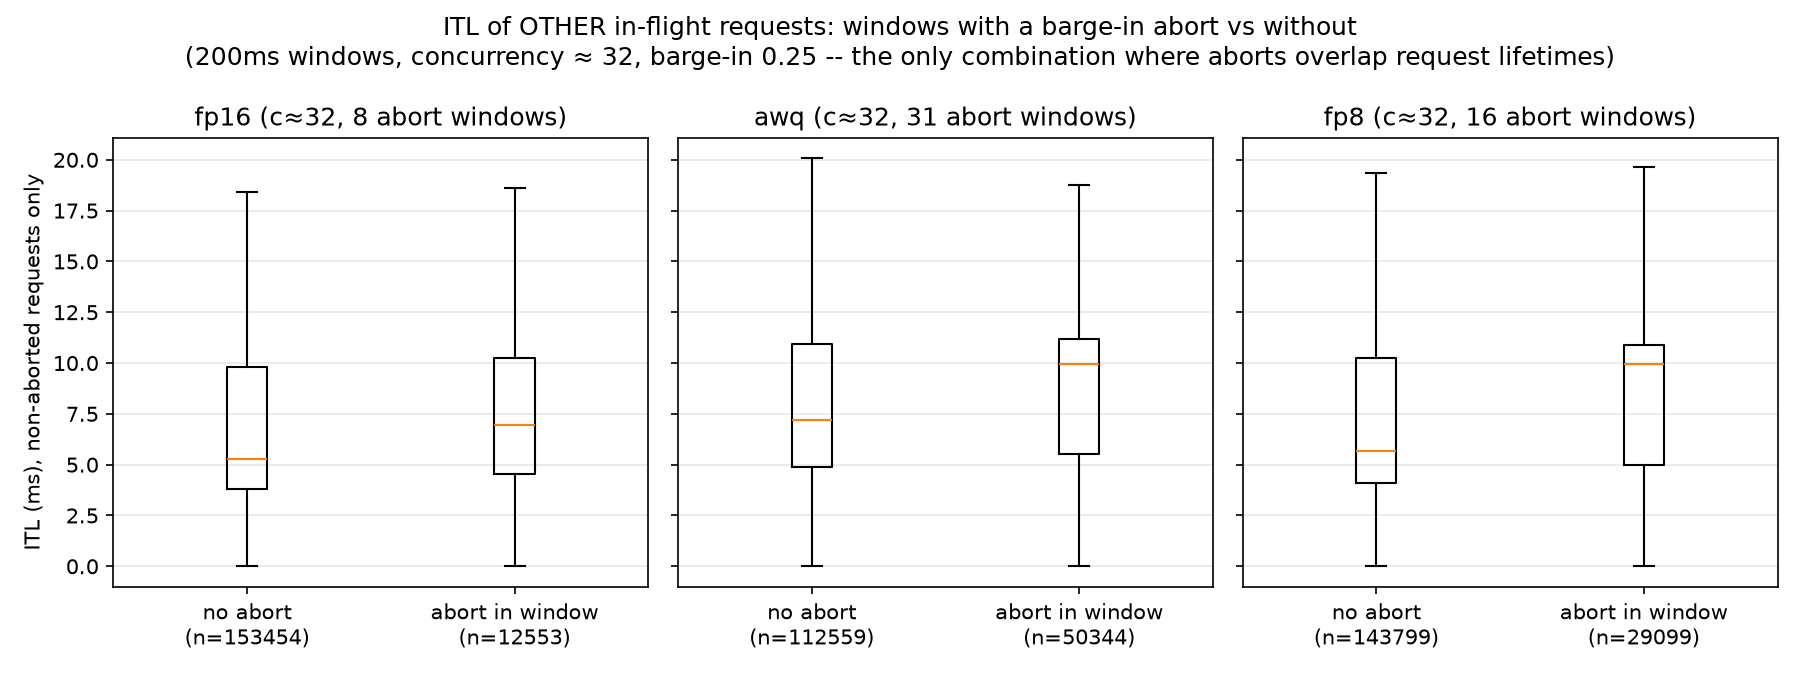
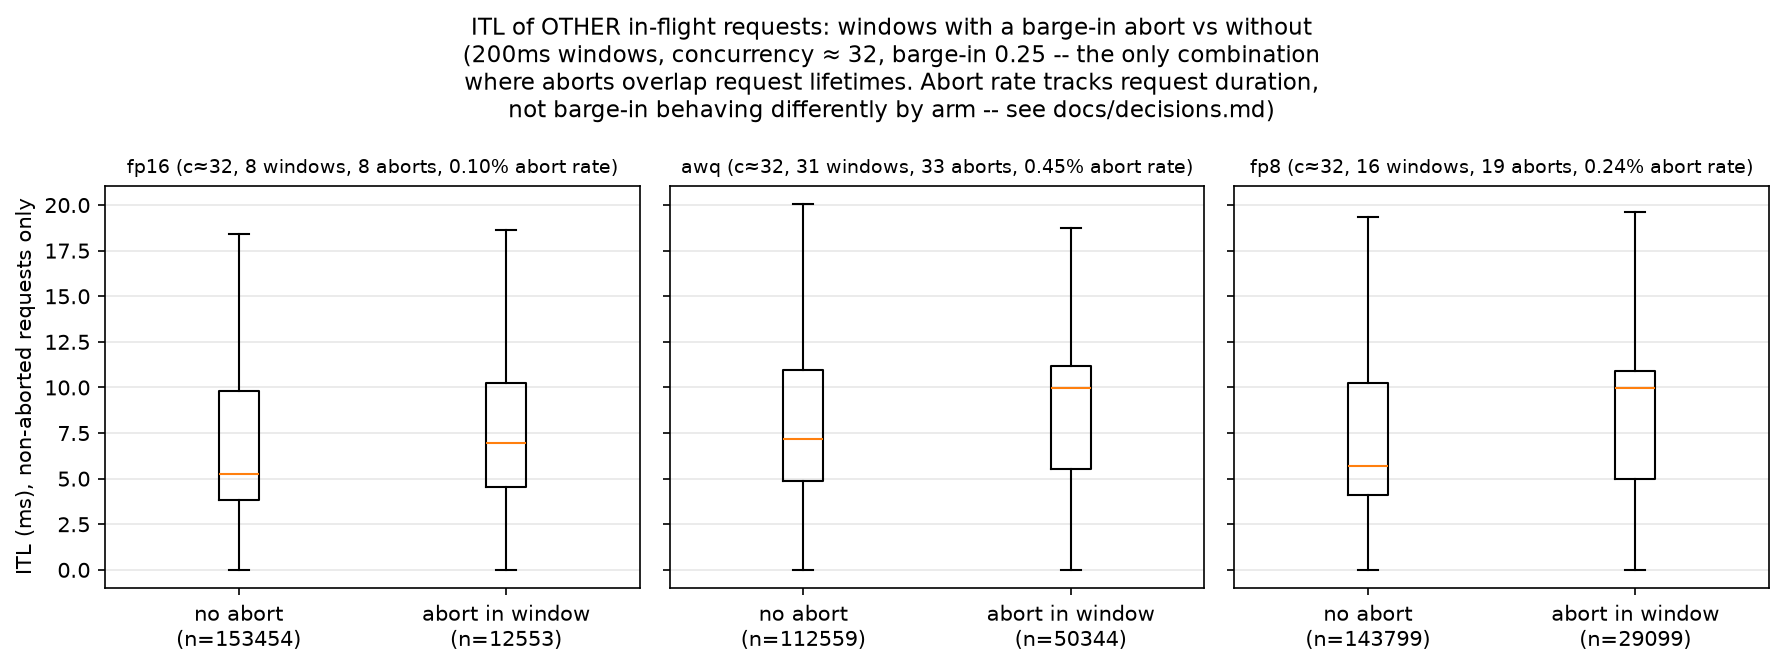
Phase 5 follow-up: plot legibility, effect-size comparison, abort-window spread (#21)
* fix: label overlap and title clipping in scripts/analyze.py plots

ttft_vs_arrival_rate.png labeled every point on all four series -- at
the two low-rate load points the values sit within ~2ms of each other,
so the labels collided into an unreadable smear. Only the highest-rate
point is labeled now, which is also the point the plot exists to make
(the series separate there, not at the low end).

Separately, plot titles/suptitles on the multi-line captions were
getting clipped at the figure edge (tight_layout doesn't reserve space
for suptitle text). savefig now passes bbox_inches="tight" everywhere.

* feat: add effect-size comparison plot

prefix_caching_effect.png only compares fp16 on vs off; the arrival-rate
plot shows quantization's near-flatness at low load but not a direct
side-by-side. Neither actually proves "prefix caching is the largest
lever" -- the headline claim -- from a single image; a reader has to
cross-reference the table to see that -28%/-38% dwarfs AWQ's +1%/+3%
and FP8's +14%/+15% at the same load point. This plot puts all three in
one frame so that comparison doesn't require assembly.

* docs: explain the abort-window count spread across arms

itl_abort_windows.png's window counts looked like they might mean
barge-in behaves differently per arm (fp16 8, AWQ 33, FP8 19 -- roughly
a 4x spread). Traced it: the sampled abort delay (0.3-1.2s) is identical
across arms, so it only actually aborts a request that's still in
[…]

diff --git a/scripts/analyze.py b/scripts/analyze.py
@@ -1,7 +1,7 @@
 """
 Phase 5: reads results/*.json committed by the Phase 1-3 sweep (and its
 calibration/repeat passes) and emits the arm x load x barge-in x
-prefix-caching matrix as markdown, plus five plots. Nothing here talks to
+prefix-caching matrix as markdown, plus six plots. Nothing here talks to
 a server -- every number traces back to a JSON file already in this repo,
 which is the point of this phase: it runs with no GPU and no pod.
 
@@ -308,6 +308,12 @@ def load_kept_requests(path):
 
 
 def plot_ttft_vs_arrival_rate(cells, out_path):
+    # Only the highest-rate point is labeled: at the two low-rate points
+    # all four series sit within ~2ms of each other, so per-point labels
+    # there collide into an unreadable smear rather than adding
+    # information -- the table has the exact numbers. The high-rate point
+    # is where the series actually separate, which is the point this plot
+    # exists to make.
     fig, ax = plt.subplots(figsize=(7, 5))
     for arm, prefix in ARM_ORDER:
         xs, ys = [], []
@@ -319,9 +325,8 @@ def plot_ttft_vs_arrival_rate(cells, out_path):
         if xs:
             label = f"{arm} (prefix {'on' if prefix else 'off'})" if arm == "fp16" else arm
             ax.plot(xs, ys, marker="o", label=label)
-            for x, y in zip(xs, ys):
-                ax.annotate(f"{y:.1f}", (x, y), textcoords="offset points",
-                             xytext=(4, 4), fontsize=8)
+            ax.annotate(f"{ys[-1]:.1f}", (xs[-1], ys[-1]), textcoords="offset points",
+                         xytext=(4, 4), fontsize=8)
     ax.set_xscale("log")
     ax.set_xlabel("Offered arrival rate (req/s, log scale)")
     ax.set_ylabel("TTFT p50 (ms)")
@@ -330,7 +335,7 @@ def plot_ttft_vs_arrival_rate(cells, out_path):
     ax.legend()
     ax.grid(alpha=0.3)
     fig.tight_layout()
-    fig.savefig(out_path, dpi=150)
+    fig.savefig(out_path, dpi=150, bbox_inches="tight")
     plt.close(fig)
 
 
@@ -360,7 +365,7 @@ def plot_prefix_caching_effect(cells, out_path):
     fig.suptitle("Prefix caching on vs off, fp16 -- the largest lever in this sweep\n"
                   "(single runs, not yet repeat-validated -- see docs/decisions.md)")
     fig.tight_layout()
-    fig.savefig(out_path, dpi=150)
+    fig.savefig(out_path, dpi=150, bbox_inches="tight")
     plt.close(fig)
 
 
@@ -390,7 +395,7 @@ def plot_ttft_distribution_per_arm(results_dir, out_path):
     fig.suptitle("TTFT distribution per arm, prefix caching off, barge-in off\n"
                   "(c1/c32 pool all 5 repeat seeds; c8 has no repeats, single run)")
     fig.tight_layout()
-    fig.savefig(out_path, dpi=150)
+    fig.savefig(out_path, dpi=150, bbox_inches="tight")
     plt.close(fig)
 
 
@@ -401,23 +406,37 @@ def abort_window_itls(path, window_s=0.2):
     those are truncated by definition and don't speak to collateral
     impact on the other requests sharing that window. This is the
     "effect on OTHER in-flight requests" harness.py's own docstring
-    names as the reason barge-in records what it does."""
+    names as the reason barge-in records what it does.
+
+    Also returns each arm's abort rate and window count -- these differ
+    a lot by arm (see plot_itl_abort_windows) not because barge-in
+    itself behaves differently, but because the same fixed 0.3-1.2s
+    sampled abort delay only lands inside a request that's still in
+    flight, and how often that happens depends on how long the arm's
+    own requests take -- i.e. on decode speed, which is exactly the ITL
+    comparison already in docs/decisions.md."""
     _, kept = load_kept_requests(path)
     if not kept:
-        return [], [], 0
+        return [], [], {"n_windows": 0, "n_aborted": 0, "abort_rate_pct": 0.0}
     t0 = min(r["arrival"] for r in kept)
 
     def window_of(r):
         return int((r["arrival"] - t0) // window_s)
 
     abort_windows = {window_of(r) for r in kept if r["aborted"]}
+    n_aborted = sum(1 for r in kept if r["aborted"])
     with_abort, without_abort = [], []
     for r in kept:
         if r["aborted"]:
             continue
         bucket = with_abort if window_of(r) in abort_windows else without_abort
         bucket.extend(x * 1000 for x in r["itls"])
-    return with_abort, without_abort, len(abort_windows)
+    stats = {
+        "n_windows": len(abort_windows),
+        "n_aborted": n_aborted,
+        "abort_rate_pct": n_aborted / len(kept) * 100 if kept else 0.0,
+    }
+    return with_abort, without_abort, stats
 
 
 def plot_itl_abort_windows(results_dir, out_path):
@@ -425,6 +444,16 @@ def plot_itl_abort_windows(results_dir, out_path):
     # sweep -- at c1/c8 requests finish faster than the sampled abort delay
     # (0.3-1.2s, harness.py's --barge-in-min/--barge-in-max), so no abort
     # ever fires there. Restricting to c32 is a finding, not a simplification.
+    #
+    # Window counts below are NOT randomly different by arm (8 / 31 / 16 as
+    # of this sweep): the same fixed 0.3-1.2s sampled abort delay only lands
+    # inside a still-in-flight request, and how often that happens tracks
+    # each arm's own decode speed (ITL) at this load point -- AWQ is the
+    # slowest here (docs/decisions.md), so more of its requests are still
+    # running when the delay elapses, so it gets aborted -- and re-plotted
+    # against a with/without-abort split -- far more often. Abort *rate* is
+    # shown per-arm below so this isn't mistaken for barge-in behaving
+    # differently per arm; it's exposure, not mechanism.
     arms = [("fp16", "fp16_pcoff_open_c32_bargein0.25.json"),
             ("awq", "awq_open_c32_bargein0.25.json"),
             ("fp8", "fp8_open_c32_bargein0.25.json")]
@@ -433,19 +462,64 @@ def plot_itl_abort_windows(results_dir, out_path):
         path = os.path.join(results_dir, fname)
         if not os.path.exists(path):
             continue
-        with_abort, without_abort, n_windows = abort_window_itls(path)
+        with_abort, without_abort, stats = abort_window_itls(path)
         data = [without_abort, with_abort]
         ax.boxplot(data, tick_labels=[f"no abort\n(n={len(without_abort)})",
                                        f"abort in window\n(n={len(with_abort)})"],
                     showfliers=False)
-        ax.set_title(f"{arm} (c≈32, {n_windows} abort windows)")
+        ax.set_title(f"{arm} (c≈32, {stats['n_windows']} windows, "
+                      f"{stats['n_aborted']} aborts, {stats['abort_rate_pct']:.2f}% abort rate)",
+                      fontsize=9)
         ax.grid(alpha=0.3, axis="y")
     axes[0].set_ylabel("ITL (ms), non-aborted requests only")
     fig.suptitle("ITL of OTHER in-flight requests: windows with a barge-in abort vs without\n"
-                  "(200ms windows, concurrency ≈ 32, barge-in 0.25 -- the only combination "
-                  "where aborts overlap request lifetimes)")
+                  "(200ms windows, concurrency ≈ 32, barge-in 0.25 -- the only combination\n"
+                  "where aborts overlap request lifetimes. Abort rate tracks request duration,\n"
+                  "not barge-in behaving differently by arm -- see docs/decisions.md)",
+                  fontsize=11)
     fig.tight_layout()
-    fig.savefig(out_path, dpi=150)
+    fig.savefig(out_path, dpi=150, bbox_inches="tight")
+    plt.close(fig)
+
+
+def plot_effect_size_comparison(cells, out_path):
+    # The other plots each make one comparison in isolation (fp16 on vs
+    # off; the arrival-rate curve). Neither puts prefix caching's effect
+    # size in the same frame as quantization's, so "prefix caching is the
+    # largest lever" -- the headline claim -- isn't visually provable from
+    # either alone; a reader has to cross-reference the table. This plot
+    # exists only to make that one comparison legible from a single image.
+    baseline = cells.get(("fp16", False, "open", 32, 0.0))
+    levers = [
+        ("prefix caching\n(fp16 on vs off)", cells.get(("fp16", True, "open", 32, 0.0))),
+        ("AWQ\n(vs fp16)", cells.get(("awq", False, "open", 32, 0.0))),
+        ("FP8\n(vs fp16)", cells.get(("fp8", False, "open", 32, 0.0))),
+    ]
+    fig, ax = plt.subplots(figsize=(7, 5))
+    labels = [l for l, c in levers if c]
+    p50_deltas = [(c["ttft_p50_ms"][0] - baseline["ttft_p50_ms"][0]) / baseline["ttft_p50_ms"][0] * 100
+                  for l, c in levers if c]
+    p99_deltas = [(c["ttft_p99_ms"][0] - baseline["ttft_p99_ms"][0]) / baseline["ttft_p99_ms"][0] * 100
+                  for l, c in levers if c]
+    x = range(len(labels))
+    width = 0.35
+    ax.bar([i - width / 2 for i in x], p50_deltas, width, label="TTFT p50")
+    ax.bar([i + width / 2 for i in x], p99_deltas, width, label="TTFT p99")
+    for i, (p50, p99) in enumerate(zip(p50_deltas, p99_deltas)):
+        ax.annotate(f"{p50:+.0f}%", (i - width / 2, p50), ha="center",
+                     va="bottom" if p50 >= 0 else "top", fontsize=8)
+        ax.annotate(f"{p99:+.0f}%", (i + width / 2, p99), ha="center",
+                     va="bottom" if p99 >= 0 else "top", fontsize=8)
+    ax.axhline(0, color="black", linewidth=0.8)
+    ax.set_xticks(list(x))
+    ax.set_xticklabels(labels)
+    ax.set_ylabel("Change vs fp16, prefix caching off (%)")
+    ax.set_title("Effect size at concurrency ≈ 32: prefix caching vs quantization\n"
+                  "(prefix caching single-run; AWQ/FP8 repeat-validated)", fontsize=11)
+    ax.legend()
+    ax.grid(alpha=0.3, axis="y")
+    fig.tight_layout()
+    fig.savefig(out_path, dpi=150, bbox_inches="tight")
     plt.close(fig)
 
 
@@ -477,7 +551,7 @@ def plot_open_vs_closed(cells, out_path):
     fig.suptitle("Open-loop vs closed-loop at the same nominal concurrency (c≈8)\n"
                   "closed-loop hides queueing by construction -- this is how much")
     fig.tight_layout()
-    fig.savefig(out_path, dpi=150)
+    fig.savefig(out_path, dpi=150, bbox_inches="tight")
     plt.close(fig)
 
 
@@ -501,6 +575,7 @@ def main():
 
     plot_ttft_vs_arrival_rate(cells, os.path.join(cfg.plots_dir, "ttft_vs_arrival_rate.png"))
     plot_prefix_caching_effect(cells, os.path.join(cfg.plots_dir, "prefix_caching_effect.png"))
+    plot_effect_size_comparison(cells, os.path.join(cfg.plots_dir, "effect_size_comparison.png"))
     plot_ttft_distribution_per_arm(cfg.results_dir, os.path.join(cfg.plots_dir, "ttft_distribution_per_arm.png"))
     plot_itl_abort_windows(cfg.results_dir, os.path.join(cfg.plots_dir, "itl_abort_windows.png"))
     plot_open_vs_closed(cells, os.path.join(cfg.plots_dir, "open_vs_closed_loop.png"))
@@ -530,6 +605,7 @@ should be read with that caveat.
 
 - `plots/ttft_vs_arrival_rate.png`
 - `plots/prefix_caching_effect.png`
+- `plots/effect_size_comparison.png`
 - `plots/ttft_distribution_per_arm.png`
 - `plots/itl_abort_windows.png`
 - `plots/open_vs_closed_loop.png`
@@ -537,7 +613,7 @@ should be read with that caveat.
     with open(cfg.out, "w") as f:
         f.write(md)
     print(f"wrote {cfg.out}")
-    print(f"wrote 5 plots to {cfg.plots_dir}/")
+    print(f"wrote 6 plots to {cfg.plots_dir}/")
 
 
 if __name__ == "__main__":

diff --git a/docs/decisions.md b/docs/decisions.md
@@ -573,3 +573,41 @@ either right now.
 (`scripts/sweep.sh` currently `tee`s it to the pod's local disk and
 stops there) into a file committed alongside its `results/*.json`, so
 this check has something to diff against and stops being one-sided.
+
+## Abort-window count spread by arm: exposure, not a different mechanism (Phase 5)
+
+**Found:** `plots/itl_abort_windows.png` (concurrency ~= 32, barge-in
+0.25) shows very different abort counts and window counts by arm: fp16
+8 aborts / 8 windows, AWQ 33 aborts / 31 windows, FP8 19 aborts / 16
+windows -- roughly a 4x spread between fp16 and AWQ. First instinct was
+that this might mean barge-in itself behaves differently per arm, or a
+data problem. It's neither.
+**Why:** the sampled abort delay is a fixed `--barge-in-min`/`--barge-in-max`
+(0.3-1.2s, uniform) applied identically to every arm -- it only actually
+aborts anything if the delay elapses *before* the request would have
+finished on its own. So the abort rate is really measuring "fraction of
+requests still in flight past ~0.3s," which depends entirely on each
+arm's own request duration at this load point. Checked directly against
+the `bargein0.25` files themselves: fraction of (non-warmup, non-error)
+requests with e2e > 300ms is 7.7% for fp16, 18.2% for AWQ, 13.2% for
+FP8 -- the same ordering and roughly the same spread as the abort
+counts (0.10% / 0.45% / 0.24%). AWQ being the slowest-tailed arm here
+lines up exactly with AWQ having the highest ITL p50 among the three at
+concurrency ~= 32 (8.57-8.80ms vs fp16's 5.05-5.33ms and FP8's
+6.01-6.06ms -- see "Corrected results" above), which is the same AWQ-
+decode-degradation-at-high-concurrency finding already recorded there,
+now showing up a second way.
+**Why it matters:** the with-abort-vs-without-abort *comparison within
+each arm* (the actual plot) is unaffected by this -- it's still a valid
+same-arm, same-run comparison. What it rules out is reading the window-
+*count* itself as a cross-arm finding ("AWQ gets barge-in tested 4x as
+often" is not a statement about barge-in; it's a restatement of AWQ
+already being the slowest arm at this load point). The plot's caption
+and `abort_window_itls()`'s docstring both say this now, so the number
+isn't misread standalone.
+**How to apply:** if barge-in exposure ever needs to be held constant
+across arms for a real cross-arm comparison (not just within-arm, which
+is what's reported here), the fix is deriving `--barge-in-min`/`--max`
+per arm from that arm's own service-time distribution, the same way
+`scripts/calibrate.py` already derives arrival rate per arm via Little's
+Law -- not attempted here, out of scope for this pass.

diff --git a/README.md b/README.md
@@ -69,7 +69,17 @@ fp16 with prefix caching on vs off at concurrency ~= 32: TTFT p50 28%
 lower, p99 38% lower with caching on -- both several times larger than
 any quantization effect measured here. Single-run, not yet
 repeat-validated; the direction and rough magnitude aren't in doubt, the
-exact percentages might move a few points on a repeat pass.
+exact percentages might move a few points on a repeat pass. The plot
+above makes the on/off comparison directly, but not the "larger than
+quantization" half of the claim -- that comparison needs both effects in
+the same frame:
+
+![Effect size comparison](plots/effect_size_comparison.png)
+
+-27.8%/-37.8% (prefix caching) against +1.3%/+3.1% (AWQ) and
++13.7%/+15.5% (FP8, weight-only) at the same load point -- prefix
+caching's effect is roughly double FP8's and an order of magnitude past
+AWQ's, in the direction that helps.
 
 **Quantization, repeat-validated (5 seeds, concurrency ~= 1 and ~= 32,
 prefix caching off):**
@@ -117,6 +127,15 @@ delay (0.3-1.2s), so no abort ever fires there. At c~=32, ITL for
 requests sharing a 200ms window with an abort runs measurably higher
 than requests in windows without one, across all three arms -- barge-in
 has a real cost to bystanders, not just to the interrupted request.
+
+The three arms' abort counts differ a lot (fp16 8, AWQ 33, FP8 19) --
+that's exposure, not barge-in behaving differently: the same fixed
+0.3-1.2s abort delay only fires on a request still in flight, and how
+often that happens tracks each arm's own decode speed at this load
+point (AWQ is the slowest of the three here, same finding as the
+quantization table above, showing up a second way). The within-arm
+with/without comparison the plot makes is unaffected; see
+`docs/decisions.md` for the full check.
 
 ## What these numbers do not prove
 

diff --git a/results/summary.md b/results/summary.md
@@ -65,6 +65,7 @@ should be read with that caveat.
 
 - `plots/ttft_vs_arrival_rate.png`
 - `plots/prefix_caching_effect.png`
+- `plots/effect_size_comparison.png`
 - `plots/ttft_distribution_per_arm.png`
 - `plots/itl_abort_windows.png`
 - `plots/open_vs_closed_loop.png`
